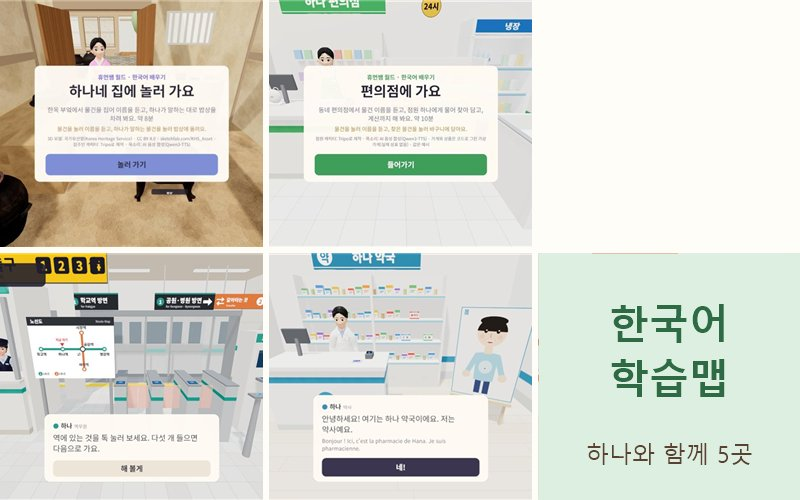
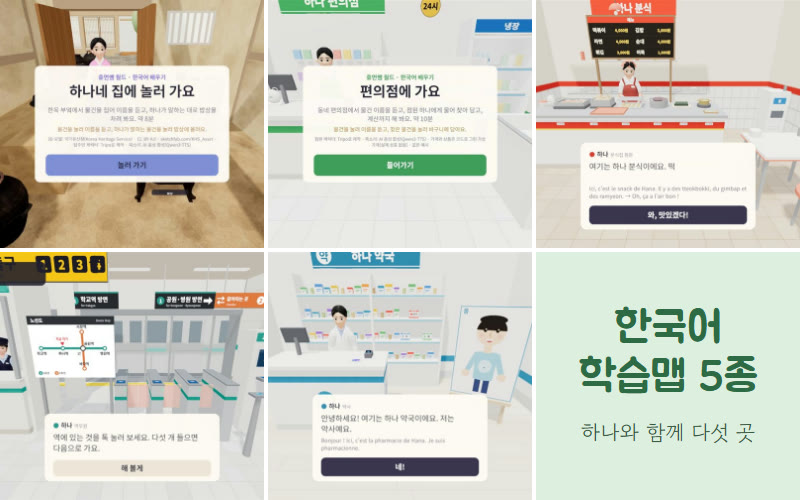
월드: 묶음 이름 '한국어 학습맵 5종', 표지에 분식집 칸 채움, 버튼 '들어갈 곳 고르기'

diff --git a/index.html b/index.html
@@ -203,7 +203,7 @@ button.enter{width:100%;border:0;font-weight:400;cursor:pointer}
 </div>
 
 <!-- data.js를 고치면 아래 v= 숫자를 올린다(브라우저·CDN이 옛 내용을 기억하지 않게) -->
-<script src="data.js?v=20261024d"></script>
+<script src="data.js?v=20261024e"></script>
 <script>
 (function(){
   var S = window.SITE, main = document.getElementById('main'), ORDER = ['cloud','app','world'];
@@ -283,7 +283,7 @@ button.enter{width:100%;border:0;font-weight:400;cursor:pointer}
       h += '</div>';
     }
     // 바로 갈 주소가 없고 묶음이면 아래 목록으로 내려 주는 버튼
-    else if (it.children) h += '<button class="enter" type="button" data-jump="kids">' + esc(it.name) + ' ' + it.children.length + '곳 고르기 <span aria-hidden="true">›</span></button>';
+    else if (it.children) h += '<button class="enter" type="button" data-jump="kids">들어갈 곳 고르기 <span aria-hidden="true">›</span></button>';
     // 바로 갈 주소가 없고 영상이 이 페이지에 있으면, 버튼은 아래 영상 목록으로 내려 준다
     else if (it.videos) h += '<button class="enter" type="button" data-jump="vids">영상 ' + it.videos.length + '편 보기 <span aria-hidden="true">›</span></button>';
     else h += '<div class="wait">' + esc(it.status) + '</div>';
@@ -298,7 +298,7 @@ button.enter{width:100%;border:0;font-weight:400;cursor:pointer}
     h += '</section>';
 
     if (it.children) {
-      h += '<section class="block" id="kids"><h2>' + esc(it.name) + ' ' + it.children.length + '곳</h2><ul class="grid kids">';
+      h += '<section class="block" id="kids"><h2>' + esc(it.name) + '</h2><ul class="grid kids">';
       it.children.forEach(function(c){ var ch = byslug(s, c); if (ch) h += card(k, ch); });
       h += '</ul></section>';
     }

diff --git a/data.js b/data.js
@@ -221,7 +221,7 @@ window.SITE = {
         "shot":  "",
         "shotAlt":  "월드 1 VR — 안내자와 첫 만남"
     },
-    { "slug": "korean-maps", "name": "한국어 학습맵", "status": "열림",
+    { "slug": "korean-maps", "name": "한국어 학습맵 5종", "status": "열림",
       "one": "하나와 함께 다섯 곳을 다니며 배우는 초급 한국어",
       "intro": ["프랑스 한글학교 초급 학습자를 위한 3D 학습맵이에요. 집주인·점원·역무원·약사로 나오는 하나와 함께 장소를 다니며, 그 자리에서 쓰는 말과 낱말 10개씩을 배워요. 한 곳에 8~12분쯤 걸려요.", "휴대폰·PC 브라우저에서 바로 열리고, 안드로이드 휴대폰·퀘스트 3에서는 내 방에 띄워 볼 수 있어요. 학습맵마다 학생용 활동지(A4 1쪽)가 있어요."],
       "note": "아래에서 장소를 골라 들어가요. 처음이면 '하나네 집에 놀러 가요'부터 해 보세요.",

diff --git a/CLAUDE.md b/CLAUDE.md
@@ -46,4 +46,5 @@
 - 이어서(2026-10-24, PC): 휴먼쌤 "올려" → 개편판을 Cloudflare Pages `human-teacher`에 올림(human-teacher.com·www 200). 같은 날 휴먼쌤 지시 셋: 월드에 한국어 학습맵 2~5판(편의점 `/store/`·분식집 `/bunsik/`·지하철 `/subway/`·약국 `/pharmacy/`, 모두 humanssaem-world.pages.dev) 카드 더함(글은 각 맵 첫 화면과 노션 H9 라인 페이지에서 옮김, 썸네일은 첫 화면 캡처) · 첫 화면 카드 아래의 칸 이름을 뺌(썸네일에 이미 큼) · '휴먼쌤 만나러 가기'를 PC에서 가운데 정렬. 소개 페이지는 10-21에 다듬음(썸네일 액자·핵심 표시·같은 칸 다른 것 넘겨 보기, `SITE.tags`).
 - 이어서(2026-10-24, PC, 같은 브랜치): 휴먼쌤 "일단 그럼 클라우드에직접 올리고, 앱별 학습지 1판 하나네집도 만든 다음에, 그것도 휴먼티처닷컴에 각 콘텐츠쪽에 넣어줘" → 클라우드 칸에 '한국어 상황극 11편' 카드(`korean-drama`): 소개 페이지에서 11편을 바로 재생(`videos` 칸, `preload="none"`+표지 그림, 하나를 틀면 나머지는 멈춤), 'AI로 만든 영상'·'대사와 프랑스어 번역은 확인 전' 안내(`warn` 칸). 편 제목·오늘의 표현은 노션 콘텐츠 페이지 '한국어 상황극 10편' 편별 목록 그대로. 월드 학습맵 5곳 소개 페이지에 '학생 활동지 내려받기'(`worksheet` 칸). 1판 하나네 집 활동지는 새로 만듦(2~5판과 같은 꼴, 내용은 맵 `content.js`의 낱말·대사·문화 한 줄에서만, 원본 HTML은 `_work/worksheet-hanok/`). 375·390·1280px 가로 넘침 없음, 영상 재생·영상·PDF 응답 200 확인. 휴먼쌤 "다되면 올려" → Cloudflare Pages에 올림.
 - 이어서(2026-10-24 저녁, PC): 휴먼쌤 "하나네 집에 놀러가요처럼 다른 4개도 썸네일이 나오면 좋겠고, 5개가 따로 있지 말고 하나의 버튼에 모아줘 폴더처럼" → 월드에 묶음 카드 '한국어 학습맵'(`children`로 hanok·store·bunsik·subway·pharmacy)을 두고, 다섯은 `parent`를 붙여 월드 목록에서는 숨기고 묶음 페이지에서 보여 줌(소개 페이지 주소 `#/world/<slug>`는 그대로, 뒤로 가기·'다른 곳' 넘겨 보기는 묶음 안에서). 2~5판 썸네일을 실제 장면(`*-scene.jpg`: 데스크톱 미리보기 그림·편의점은 크롬 캡처)으로 바꿈, 묶음 표지는 다섯 장면 3×2 모음. `data.js?v=20261024d`.
+- 이어서(2026-10-24 저녁, PC): 휴먼쌤 "'한국어 학습맵 5종'이라고 버튼을 만들고 그걸 누르면 5개가 보이도록" → 묶음 이름을 '한국어 학습맵 5종'으로, 묶음 페이지 버튼은 '들어갈 곳 고르기'. 묶음 표지에서 분식집 칸이 비어 있던 것을 다시 만듦(원본 `_work/thumb-korean-maps.html`). `data.js?v=20261024e`로 Cloudflare Pages에 올림(공개 주소에서 월드 목록·묶음 다섯 곳 확인). 휴먼쌤 "깃허브는 어차피 안되니까 당연히 클라우드플레어로 해야지" — GitHub이 막혀 있는 동안 '올려'는 Cloudflare Pages 배포를 뜻한다.
 - 남은 일: ⓪ 노션 예비 사이트와 내용이 갈리면 이 저장소(`data.js`)가 정본. 상황극 대사·프랑스어 번역을 원어민이 확인하면 `warn`의 '확인 전' 문장을 뺀다. 4편 택시는 한국어·프랑스어 장면 내내 앞유리에 AI 글자가 보여(표지는 '따라 말하기' 화면으로 피함) 다시 만들지는 휴먼쌤 결정 ① 책·워크북·강의노트가 나오면 '준비 중'을 '열림'+주소로 ② GitHub이 풀리면 이 커밋들을 올린다. 사이트를 Cloudflare에 둘지 GitHub Pages로 돌릴지는 그때 휴먼쌤이 정한다(지금 도메인은 Cloudflare로 가 있어 GitHub Pages 쪽 `CNAME`은 쓰이지 않음)
